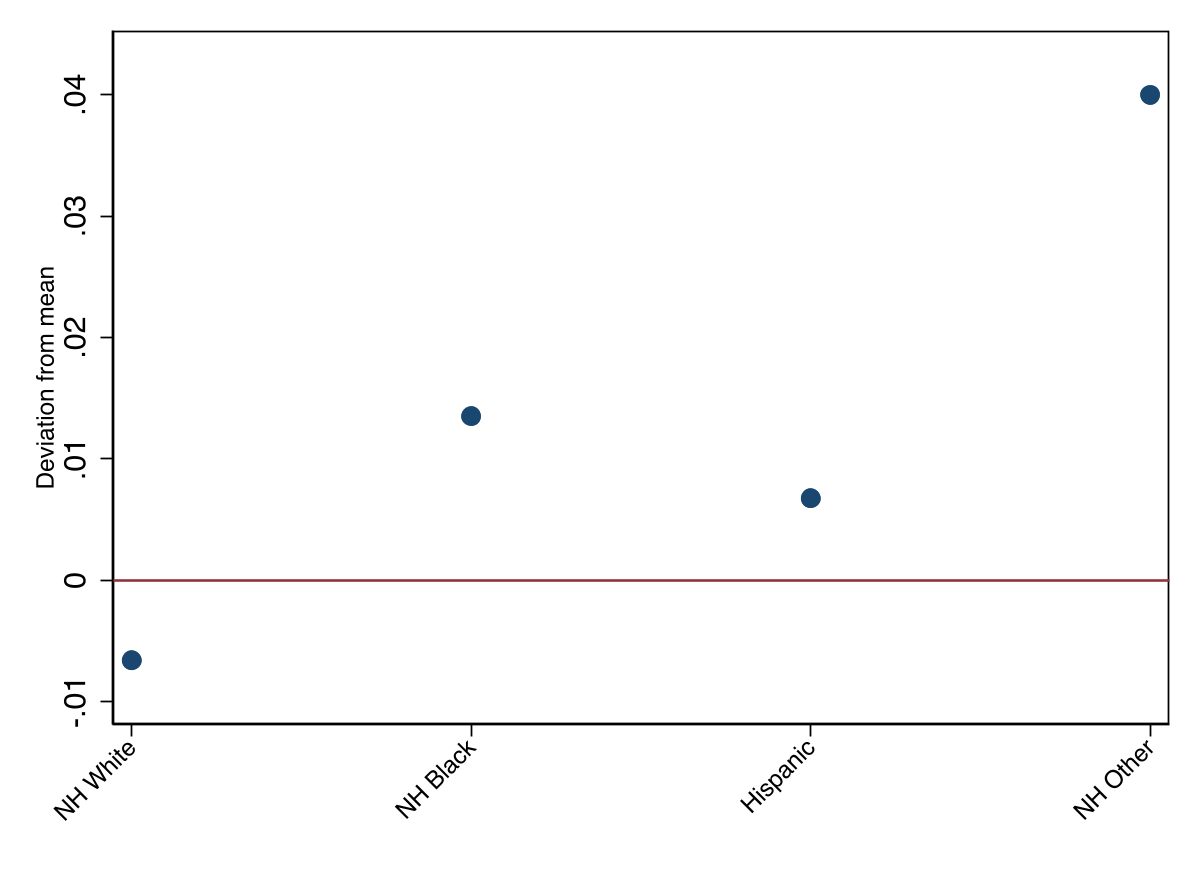
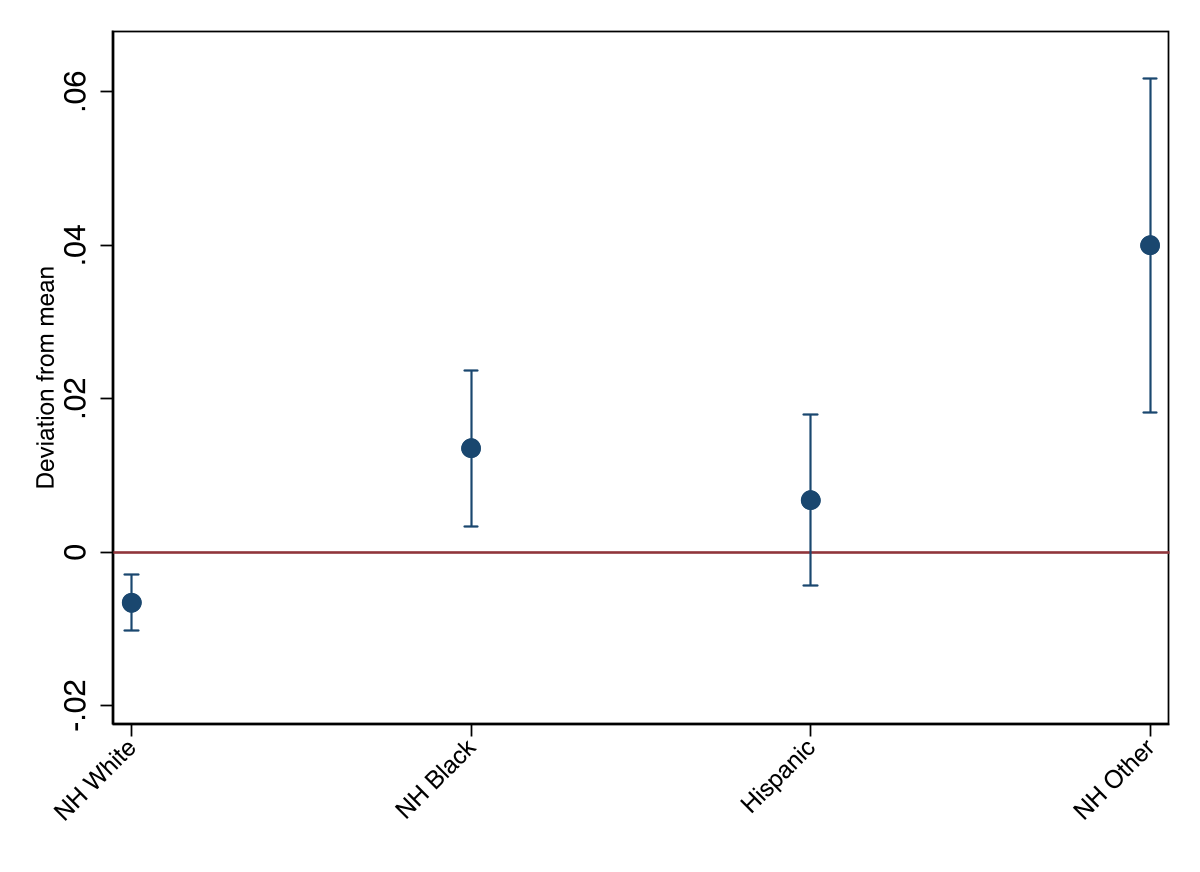
edits to chp 2

diff --git a/chapters/chapter2/Paper/Subfiles/results.tex b/chapters/chapter2/Paper/Subfiles/results.tex
@@ -304,7 +304,7 @@ Setting this derivative to zero gives the critical point $\textit{Trust}^* = -\b
 
 \par An important finding in the HRS data is that i) the \texttt{NH Black} racial category predicts trust well, ii) regressions of returns to net wealth on race without trust show nontrivial racial differences, and iii) once trust (and trust$^2$) enter the return regressions, those differences attenuate. Table~\ref{tab:47_race_no_trust} summarizes the no-trust race coefficients for the average-return and pooled specifications using the reduced and full control sets.
 
-\InputStataRegTableCompact{\textbf{Race Coefficients in No-Trust Average-Return and Pooled Specifications}}{tab:47_race_no_trust}{../../Code/Analysis/Tables/47_table1_race_no_trust.tex}{Columns~\textit{(1)--(2)} are cross-sectional OLS of 5\% winsorized average returns to net wealth; columns~\textit{(3)--(4)} are pooled person-year OLS of 5\% winsorized returns to net wealth with standard errors clustered by household.}
+\InputStataRegTableCompact{\textbf{Race Coefficients in No-Trust Average-Return and Pooled Specifications}}{tab:47_race_no_trust}{../../Code/Analysis/Tables/47_table1_race_no_trust.tex}{Columns~\textit{(1)--(2)} are cross-sectional OLS of 5\% winsorized average returns to net wealth; columns~\textit{(3)--(4)} are pooled person-year OLS of 5\% winsorized returns to net wealth with standard errors clustered by household. In each model family, the reduced column includes race together with the baseline return controls, while the full column adds the extended demographic controls. Only race coefficients are displayed.}
 \FloatBarrier
 
 \subsubsection{Predicted returns by race}
@@ -337,7 +337,7 @@ Setting this derivative to zero gives the critical point $\textit{Trust}^* = -\b
     \caption{CRE}
   \end{subfigure}
 
-  \caption{Race-specific mean predicted return minus the overall mean predicted return for each regression model.}
+  \caption{Race-group deviations from the overall mean predicted return by specification.}
   \label{fig:38_predicted_returns_by_race}
 \end{figure}
 
@@ -345,13 +345,13 @@ Setting this derivative to zero gives the critical point $\textit{Trust}^* = -\b
 
 \subsubsection{Actual returns by race}
 
-\par Figure~\ref{fig:47_actual_returns_by_race} makes the realized-return comparison in the most direct way: I first average 5\% winsorized returns to net wealth within respondent over the observed panel, then subtract the overall respondent-level mean from each race group's respondent-level average. Because this object is built directly from realized returns rather than from any fitted model, it is common across the specifications above.
+\par Figure~\ref{fig:47_actual_returns_by_race} makes the realized-return comparison in the most direct way: I first average 5\% winsorized returns to net wealth within respondent over the observed panel, then estimate the race-specific means of those respondent-level averages and subtract the overall respondent-level mean. The confidence intervals therefore summarize the sampling uncertainty around the race-specific respondent means. Because this object is built directly from realized returns rather than from any fitted model, it is common across the specifications above.
 
 \begin{figure}[H]
   \centering
   \includegraphics[width=0.62\linewidth]{../../Code/Analysis/Figures/47_actual_returns_by_race.png}
-  \caption{Race-specific mean realized return minus the overall respondent-level mean realized return.}
+  \caption{Race-group deviations from the overall mean realized return, with 95\% confidence intervals for the respondent-level race means.}
   \label{fig:47_actual_returns_by_race}
 \end{figure}
 
-\par The realized-return comparison is useful as a check on the fitted-return evidence because it removes the model-specific machinery and looks directly at the respondent-level return averages in the data. In this graph, \texttt{NH White} respondents lie slightly below the overall respondent-level mean, while the other three groups lie above it, with the largest positive deviation for \texttt{NH Other}.
+\par The realized-return comparison is useful as a check on the fitted-return evidence because it removes the model-specific machinery and looks directly at the respondent-level return averages in the data. The point estimates still place \texttt{NH White} slightly below the overall respondent-level mean, while the other three groups lie above it, with the largest positive deviation for \texttt{NH Other}. The confidence intervals also make clear how much noise surrounds those respondent-level race means.

diff --git a/Emails/committee_email_template.md b/Emails/committee_email_template.md
@@ -1,0 +1,124 @@
+# Committee Invitation Email — Template + Swap Lines
+**Decory Edwards | PhD Candidate, Economics, JHU**
+
+---
+
+## THE TEMPLATE
+
+> Replace everything in `[brackets]` using the cheat sheet below.
+
+---
+
+**Subject:** PhD Thesis Committee Invitation — Decory Edwards (advised by Prof. Christopher Carroll)
+
+Dear Prof. [LAST NAME],
+
+I hope this email finds you well. I am writing on behalf of my supervisor Prof. Christopher Carroll (cc'd), who encouraged me to reach out given the close connection between my work and your expertise in [EXPERTISE LINE].
+
+I wanted to ask whether you would be willing to serve as an external member of my PhD thesis committee. My defense is currently scheduled for April 2026, and the other committee members are Christopher Carroll, Nick Papageorge, and Stelios Fourakis, all from the JHU Department of Economics.
+
+My dissertation, *Essays on Heterogeneous Returns, Trust, and Household Wealth*, studies heterogeneity in asset returns and its implications for wealth accumulation and inequality through three essays. My job market paper extends the standard heterogeneous-agent consumption-saving framework to allow for differences in rates of return across households and calibrates the resulting model to match the empirical wealth distribution in the Survey of Consumer Finances. I also compare the distributional and welfare effects of revenue-equivalent wealth and capital income tax policies in this setting. My second essay uses the RAND Longitudinal version of the Health and Retirement Study to document a hump-shaped relationship between generalized trust and returns to net wealth, while characterizing the persistent, individual-level component of returns using panel regression models. My third essay develops a decision-theoretic framework for ranking wealth distributions under ambiguity and applies the social welfare approach to derive a measure of wealth inequality aversion, which I compare to the Black-White median wealth gap using triennial SCF data from 1989–2022.
+
+[OVERLAP PARAGRAPH — 2-3 sentences on why their work connects. See cheat sheet below.]
+
+I would be happy to share a draft of my dissertation. Please let me know if you have any questions or would like any additional information.
+
+Thank you very much for considering my request.
+
+Best wishes,
+Decory Edwards
+PhD Candidate, Department of Economics, Johns Hopkins University
+dedwar65@jhu.edu | https://dedwar65.github.io
+
+---
+
+## CHEAT SHEET — Swap Lines Per Professor
+
+Fill in `[EXPERTISE LINE]` and `[OVERLAP PARAGRAPH]` from the rows below.
+
+---
+
+### 1. Michael Keane — Carey Business School
+**Email:** mkeane@jhu.edu
+
+**[EXPERTISE LINE]:**
+> life-cycle modeling, structural choice modeling, and panel data econometrics
+
+**[OVERLAP PARAGRAPH]:**
+> Your foundational contributions to structural life-cycle models and simulation estimation are directly relevant to both my first and second chapters. The first chapter features a calibrated life-cycle heterogeneous-agent model, and the second relies heavily on panel data methods — including fixed-effects and correlated random effects (Mundlak) estimators — to isolate the persistent component of individual investment returns in the HRS.
+
+---
+
+### 2. Federico Bandi — Carey Business School
+**Email:** fbandi@jhu.edu
+
+**[EXPERTISE LINE]:**
+> financial econometrics and the empirical measurement of asset return dynamics
+
+**[OVERLAP PARAGRAPH]:**
+> A central empirical contribution of my second chapter is decomposing measured return dispersion in the HRS into a persistent individual component and noise — a question closely related to your work on identifying and separating components of return variation. My setting is household survey data rather than high-frequency market data, but the identification challenge is analogous: how much of the cross-sectional dispersion in returns reflects stable individual differences versus transitory fluctuations.
+
+---
+
+### 3. Tetiana Davydiuk — Carey Business School
+**Email:** tetianav.davydiuk@jhu.edu
+
+**[EXPERTISE LINE]:**
+> financial intermediation and its macroeconomic consequences
+
+**[OVERLAP PARAGRAPH]:**
+> An important extension in my first chapter interprets the return heterogeneity required by the model through the lens of banking-sector frictions — specifically, variation in deposit rates across banks and incomplete monetary policy pass-through to household accounts. This mechanism connects the macro-level return distribution directly to household financial access, a theme closely related to your research on how disruptions to financial intermediation affect the broader economy.
+
+---
+
+### 4. Alessandro Rebucci — Carey Business School
+**Email:** arebucci@jhu.edu
+
+**[EXPERTISE LINE]:**
+> macroeconomics and the distributional effects of financial and fiscal policy
+
+**[OVERLAP PARAGRAPH]:**
+> My job market paper uses a quantitative heterogeneous-agent model to study revenue-equivalent wealth and capital income tax policies, characterizing their distributional and welfare effects across the return distribution and the life cycle. The broader questions of the dissertation — what drives inequality in wealth accumulation and how macroeconomic policy should respond — align closely with your research interests in macroeconomics and household finance.
+
+---
+
+### 5. Annie Lee — SAIS
+**Email:** annie.lee@jhu.edu
+
+**[EXPERTISE LINE]:**
+> heterogeneous agent models
+
+**[OVERLAP PARAGRAPH]:**
+> Although your work focuses on heterogeneity on the firm side, the modeling approach in my first chapter shares a great deal with that literature: how to introduce and discipline ex-ante heterogeneity, how to match targeted and untargeted distributional moments, and how to use the resulting framework for quantitative policy analysis. I believe your perspective on the heterogeneous-agent methodology would be a valuable addition to my committee.
+
+---
+
+### 6. Edi Karni — Department of Economics, JHU
+**Email:** ekarni@jhu.edu
+> ⚠ *Karni is within the Economics dept — confirm with Chris whether he qualifies as an external member or would serve as an additional reader.*
+
+**[EXPERTISE LINE]:**
+> axiomatic decision theory, ambiguity, and the foundations of social welfare measurement
+
+**[OVERLAP PARAGRAPH]:**
+> My third chapter draws directly on the theoretical tradition you have developed — specifically, the axiomatic links between choice under ambiguity and social welfare analysis. The chapter argues that because wealth data are inherently subjective in a way income data are not, the appropriate framework for ranking wealth distributions incorporates uncertainty aversion. I then apply the Atkinson equally-distributed-equivalent approach within a choice-under-ambiguity model to derive an explicit measure of wealth inequality aversion and track it against the Black-White median wealth gap in the SCF.
+
+---
+
+### 7. Amitabh Basu — Applied Mathematics & Statistics (back-up)
+**Email:** abasu9@jhu.edu
+> *Consider using the back-up language from Adrian's template if reaching out in that capacity.*
+
+**[EXPERTISE LINE]:**
+> large-scale optimization with discrete and continuous decision structures
+
+**[OVERLAP PARAGRAPH]:**
+> My job market paper involves calibrating a heterogeneous-agent model by solving for the distribution of asset returns that best matches empirical wealth moments — a structured optimization problem over a discrete (or lognormal) type space, subject to equilibrium constraints from households' dynamic savings problems. Your expertise in the design and analysis of algorithms for problems combining discrete choices and continuous optimization is directly relevant to the computational structure of this work.
+
+---
+
+## SENDING CHECKLIST
+- [ ] CC Chris Carroll on every email
+- [ ] Confirm your actual defense date and update `April 2026` if needed
+- [ ] Confirm Edi Karni's eligibility as external vs. internal reader with Chris
+- [ ] Attach or offer to share your dissertation draft
